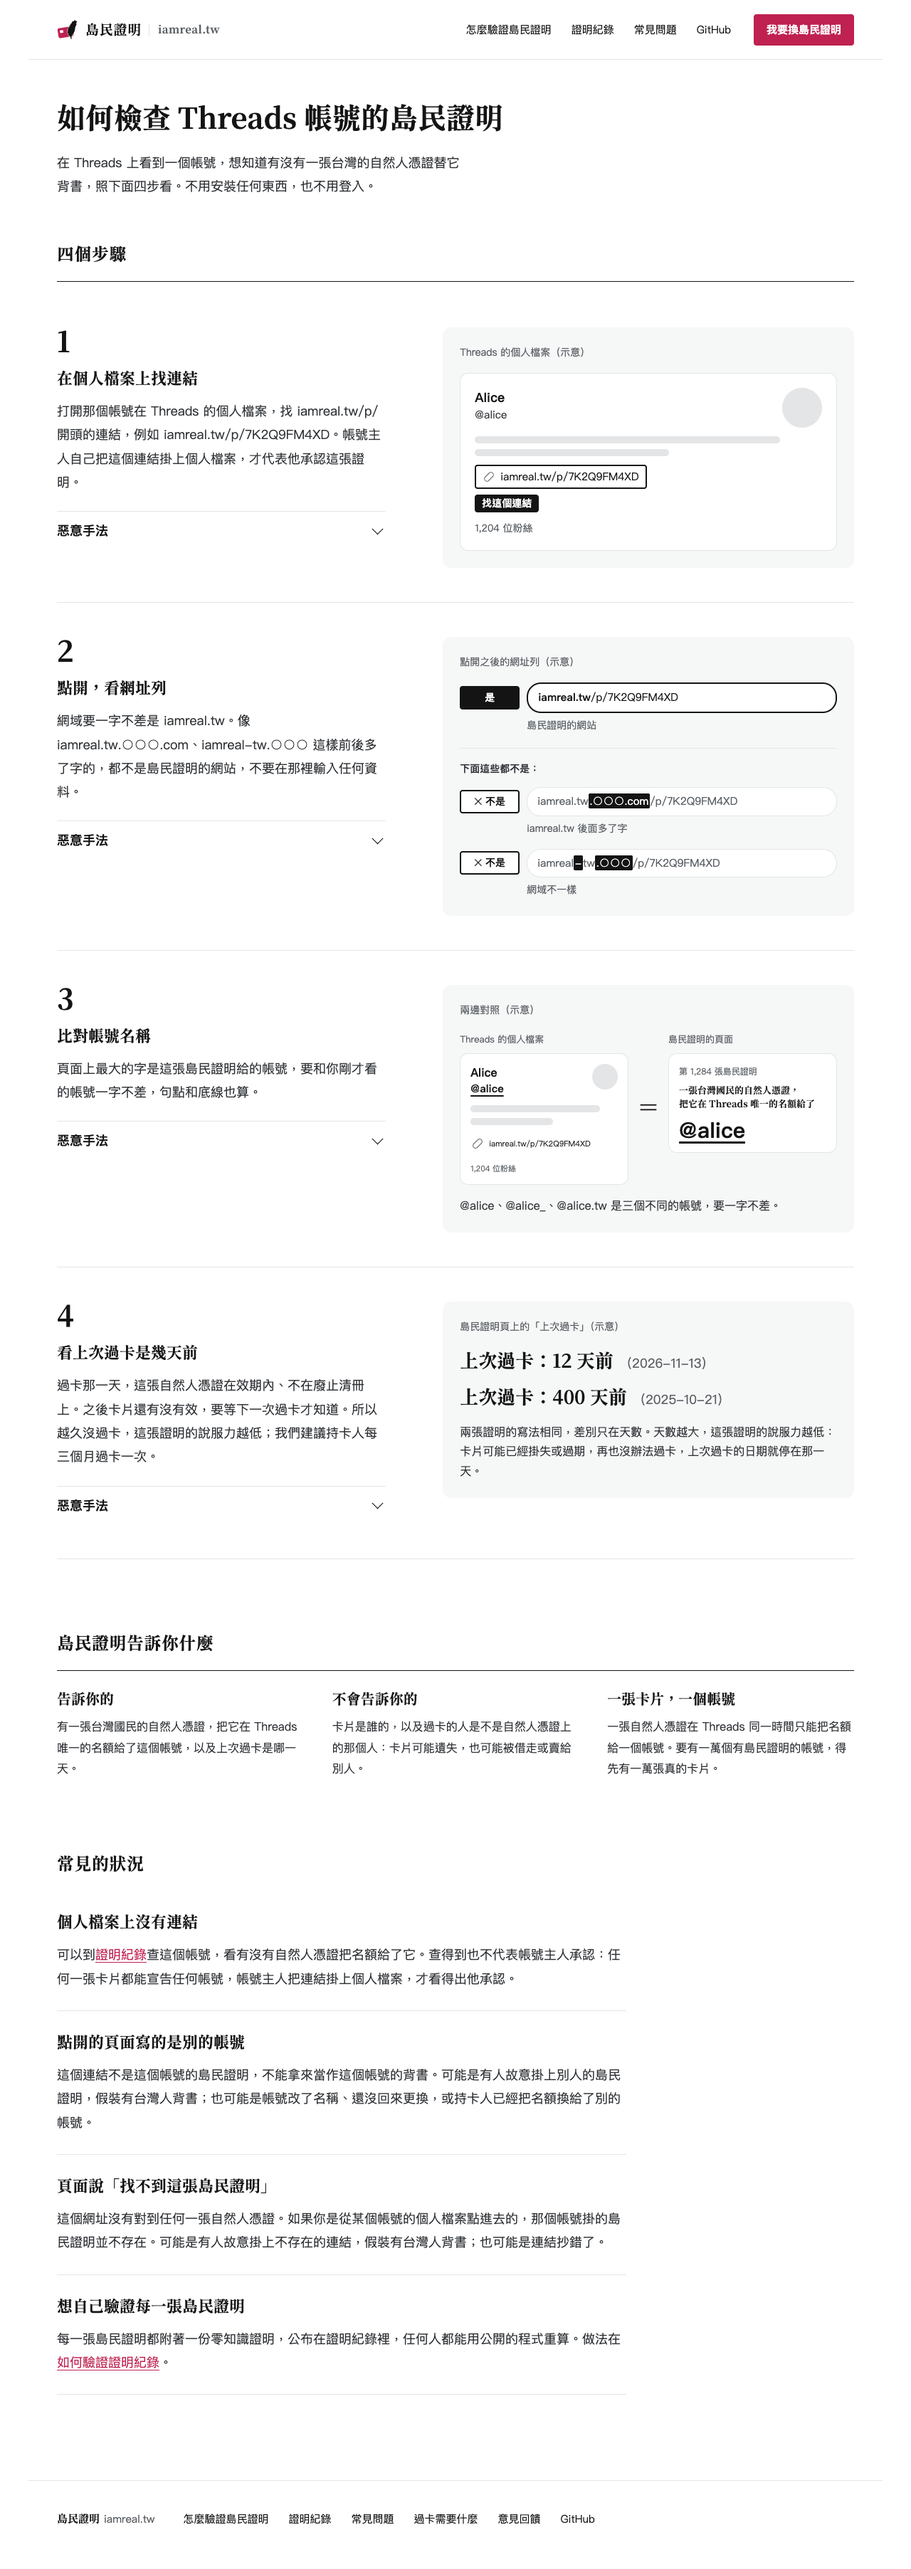
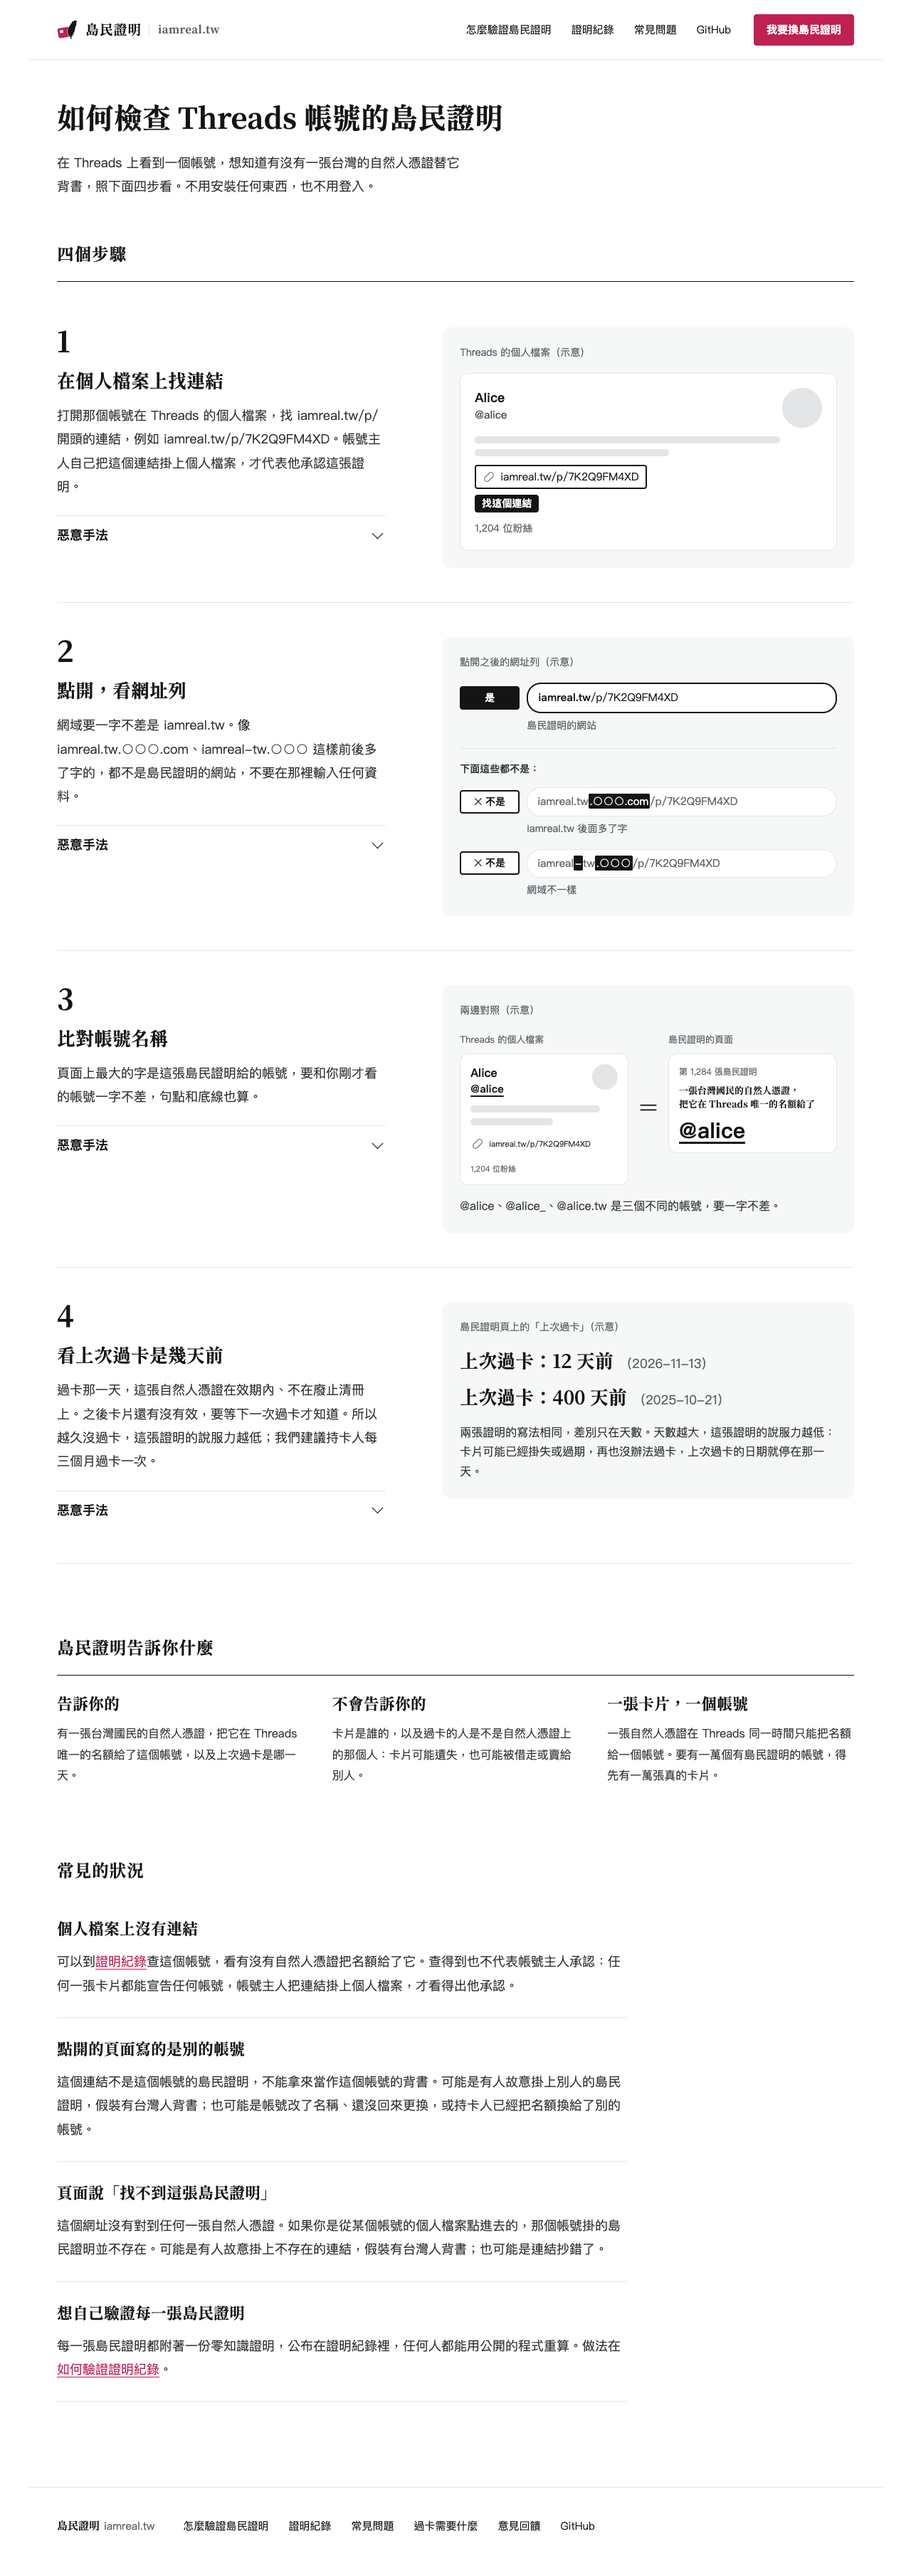
審查的修正：.sr 和箭頭和首頁共用一條規則、步驟名稱用小標題的字級、README 的 page 種類、測試從 check.md 讀哪幾張圖下面有一句（#336）

diff --git a/worker/test/site-pages.test.ts b/worker/test/site-pages.test.ts
@@ -342,18 +342,24 @@ describe("what a card proof needs", () => {
   });
 });
 
-/** check.md's four steps, each its three code blocks: the words on the left, the words of the picture (its title first), and what a screen reader is told of the picture. */
-function checkSteps(): { text: string[]; picture: string[]; told: string[] }[] {
-  const blocks = codeBlocks(copySection("check.md", "2. "));
-  assert.equal(blocks.length, 1 + 4 * 3, "check.md section 2: its heading, then three blocks for each of the four steps");
-  return [0, 1, 2, 3].map((i) => ({ text: blocks[1 + 3 * i]!, picture: blocks[2 + 3 * i]!, told: blocks[3 + 3 * i]! }));
+/**
+ * check.md's four steps (its "### 第 n 步"), each its three code blocks: the words on the left, the words of the picture (its
+ * title first), and what a screen reader is told of the picture; and whether the picture's last line is the sentence under it
+ * rather than a piece of it (check.md says 最後一句在圖的下面).
+ */
+function checkSteps(): { text: string[]; picture: string[]; told: string[]; note: boolean }[] {
+  const steps = copySection("check.md", "2. ").split("\n### 第 ").slice(1);
+  assert.equal(steps.length, 4, "check.md section 2 has four steps");
+  return steps.map((step, i) => {
+    assert.ok(step.startsWith(`${i + 1} 步\n`), `check.md step ${i + 1}`);
+    const blocks = codeBlocks(step);
+    assert.equal(blocks.length, 3, `check.md step ${i + 1}: three code blocks`);
+    return { text: blocks[0]!, picture: blocks[1]!, told: blocks[2]!, note: step.includes("最後一句在圖的下面") };
+  });
 }
 
 /** The lines of check.md's pictures and steps 1 and 2, as a site with this domain writes them (check.md, 測試網站). */
 const onSite = (lines: readonly string[], host: string): string[] => copyLines(lines, "iamreal.tw", host);
-
-/** The last line of a picture that is a sentence under it rather than a piece of it (check.md, steps 3 and 4). */
-const NOTE_OF_STEP = [false, false, true, true];
 
 describe("how to check an account's proof", () => {
   test("every sentence of check.md, in order, then the foot; each step's picture after its words, the picture's pieces hidden from a screen reader, which is told it in words; the preview", async () => {
@@ -384,7 +390,7 @@ describe("how to check an account's proof", () => {
     for (const [i, s] of steps.entries()) {
       const figure = figures[i]!;
       const picture = onSite(s.picture, host);
-      const note = NOTE_OF_STEP[i] ? picture[picture.length - 1]! : null;
+      const note = s.note ? picture[picture.length - 1]! : null;
       const pieces = picture.slice(1, note === null ? undefined : -1);
       const m = /^\s*<figcaption>([^<]*)<\/figcaption>\s*<p class="sr">([^<]*)<\/p>\s*<div class="sketch-body" aria-hidden="true">([\s\S]*)<\/div>\s*(?:<p class="sketch-note">([^<]*)<\/p>\s*)?$/.exec(figure);
       assert.ok(m !== null, `step ${i + 1}: the picture is its title, what a screen reader is told, its hidden pieces and its sentence:\n${figure}`);

diff --git a/worker/site/pages.css b/worker/site/pages.css
@@ -786,8 +786,9 @@ body.home main ol {
   list-style: none;
 }
 
-/* Read by a screen reader, not shown: each figure's one sentence. */
-body.home .sr {
+/* Read by a screen reader, not shown: each figure's one sentence; on how to check an account's proof, what each picture shows. */
+body.home .sr,
+body.check .sr {
   position: absolute;
   width: 1px;
   height: 1px;
@@ -1773,7 +1774,8 @@ body.home .questions summary::-webkit-details-marker {
   display: none;
 }
 
-body.home .questions summary::after {
+body.home .questions summary::after,
+body.check .trick summary::after {
   content: "";
   position: absolute;
   right: 6px;
@@ -1786,7 +1788,8 @@ body.home .questions summary::after {
   transform: rotate(45deg);
 }
 
-body.home .questions details[open] summary::after {
+body.home .questions details[open] summary::after,
+body.check .trick[open] summary::after {
   margin-top: -2px;
   transform: rotate(-135deg);
 }
@@ -2567,8 +2570,8 @@ body.check .step .n {
 body.check .step h3 {
   font-family: var(--font-display);
   font-weight: var(--weight-heading);
-  font-size: 22px;
-  line-height: 1.5;
+  font-size: var(--size-h3);
+  line-height: var(--leading-h3);
   margin: 16px 0 12px;
 }
 
@@ -2596,24 +2599,6 @@ body.check .trick summary {
 
 body.check .trick summary::-webkit-details-marker {
   display: none;
-}
-
-body.check .trick summary::after {
-  content: "";
-  position: absolute;
-  right: 6px;
-  top: 50%;
-  width: 10px;
-  height: 10px;
-  margin-top: -8px;
-  border-right: 1.5px solid var(--ink);
-  border-bottom: 1.5px solid var(--ink);
-  transform: rotate(45deg);
-}
-
-body.check .trick[open] summary::after {
-  margin-top: -2px;
-  transform: rotate(-135deg);
 }
 
 body.check .trick p {
@@ -2645,19 +2630,6 @@ body.check .sketch .sketch-note {
   margin-top: 16px;
   font-size: 16px;
   line-height: var(--leading-small);
-}
-
-/* What a screen reader is told of a picture: read, not shown. */
-body.check .sr {
-  position: absolute;
-  width: 1px;
-  height: 1px;
-  margin: -1px;
-  padding: 0;
-  overflow: hidden;
-  clip-path: inset(50%);
-  white-space: nowrap;
-  border: 0;
 }
 
 /* The example profile (steps 1 and 3): a white card with a thin frame, nothing of Threads' own look. */
@@ -2952,7 +2924,7 @@ body.check .three {
 body.check .three h3 {
   font-family: var(--font-display);
   font-weight: var(--weight-heading);
-  font-size: 20px;
+  font-size: 22px;
   line-height: 1.5;
   margin: 8px 0 10px;
 }
@@ -3433,7 +3405,7 @@ body.account-not-a-name .title {
   }
 
   body.check .step h3 {
-    font-size: 19px;
+    font-size: var(--size-h3-phone);
     margin-top: 12px;
   }
 
@@ -3475,6 +3447,10 @@ body.account-not-a-name .title {
   body.check .three {
     grid-template-columns: minmax(0, 1fr);
     gap: 28px;
+  }
+
+  body.check .three h3 {
+    font-size: 19px;
   }
 
   /* Hanging a proof: the two buttons share the row; the button of the page without a proof is as wide as the screen, under its question. */

diff --git a/worker/README.md b/worker/README.md
@@ -500,7 +500,7 @@ IAMREAL_SEQUENCE_STORAGE=1 node --experimental-strip-types --test test/sequence.
 - **樣板和複製按鈕的程式是舊後台的，樣式表照新的設計。** `src/pages/` 的 HTML 照舊後台的樣板逐段搬過來，`site/copy.js` 就是舊後台的那一支；舊後台刪掉之前，測試核對過 `copy.js` 和當時的 `site/pages.css` 和舊後台的逐位元組相同。之後導覽列、頁尾和整站的外觀換成 `design/DESIGN.md` 的（[#283](https://github.com/iamreal-tw/iamreal/issues/283)）：`site/pages.css` 的 `:root` 每一個值和 `design/tokens.json` 同名的相同，顏色只從那裡來，`760px` 以下換成手機的排法（`test/style-sheet.test.ts`）；各頁自己的排法等各頁的票：首頁、島民證明頁、查詢頁、過卡需要什麼（`/prepare`）、常見問題（`/faq`）、怎麼驗證島民證明（`/verify`）、如何檢查 Threads 帳號的島民證明（`/check`）、掛上去（`/hang`）已經照 `design/DESIGN.md` 排，其他頁現在仍是一欄。畫面上的每一句寫在樣板裡，逐字照 `design/copy/`；測試（[`test/pages.test.ts`](test/pages.test.ts)、[`test/copy.ts`](test/copy.ts)）直接讀 `design/copy/` 的每一段，確認那一種情況的每一句都在頁面上、順序相同。
 - **放進 HTML 的值一律跳脫。** 樣板是 `src/pages/html.ts` 的 `html` 標籤：放進去的字串全部跳脫，只有這個標籤自己產生的片段不跳脫。訪客打的網址、證明紀錄裡的帳號都走這一條。
 - **頁面預設沒有程式**：沒有 `<script>`、沒有行內樣式、沒有事件屬性，不設 cookie。例外只有怎麼驗證島民證明和帶著島民證明的掛上去：各載入一支自己網域的程式 `/copy.js`（`<script src="/copy.js" defer>`），沒有行內的程式；這兩頁的 CSP 多一項 `script-src 'self'`（[頁面送的標頭](#頁面送的標頭)）。程式只讓「複製」的按鈕出現、按了複製；沒有程式時按鈕藏著，要複製的字照樣在頁面上選得起來。只收 `GET` 和 `HEAD`，其他方法回 `405`。產生頁面時只讀請求的方法和路徑，證明紀錄頁另外讀網址的查詢（`q`、`after`）。
-- **後台不存連線紀錄。** 頁面的請求也一樣，回答了就不寫任何東西。後台自己出錯時回 `500`（純文字），寫一行：`{event: "internal_error", page, where, error}`，`page` 是哪一種頁面（`home`、`card`、`account`、`proof_log`、`hang`、`faq`、`verify`、`none`），不含短編號、帳號和網址的任何部分。檔案的請求不跑 Worker，後台的程式對它們什麼都不寫。
+- **後台不存連線紀錄。** 頁面的請求也一樣，回答了就不寫任何東西。後台自己出錯時回 `500`（純文字），寫一行：`{event: "internal_error", page, where, error}`，`page` 是哪一種頁面（`home`、`card`、`account`、`proof_log`、`hang`、`faq`、`verify`、`check`、`prepare`、`none`），不含短編號、帳號和網址的任何部分。檔案的請求不跑 Worker，後台的程式對它們什麼都不寫。
 
 ### 讀證明紀錄經過一個介面
 

diff --git a/design/copy/check.md b/design/copy/check.md
@@ -154,7 +154,7 @@ iamreal.tw/p/7K2Q9FM4XD
 ```
 
 - 兩行的樣式照島民證明頁第 2 段的第一行（`proof-page.md`）：括號裡的日期小一號、淡色；兩行樣式相同，不加警告
-- 最後一句在兩行下面，是面板裡的一般文字，螢幕報讀器照常讀
+- 最後一句在圖的下面（兩行的下面），是面板裡的一般文字，螢幕報讀器照常讀
 
 ## 3. 島民證明告訴你什麼
 
